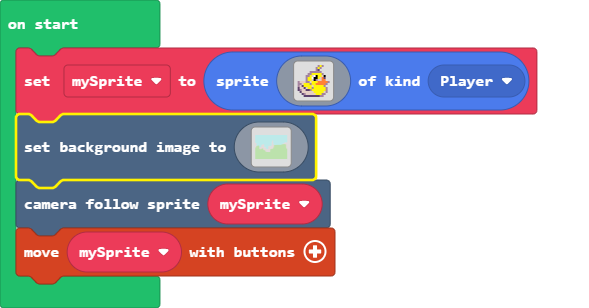
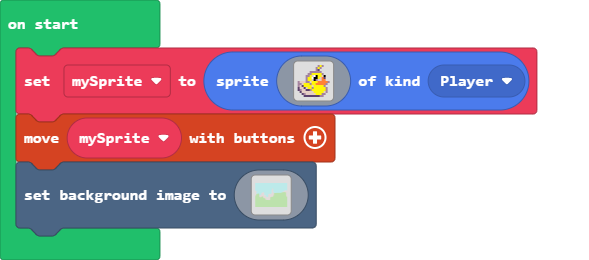
Update main.blocks, main.ts

diff --git a/main.ts b/main.ts
@@ -16,6 +16,7 @@ let mySprite = sprites.create(img`
     . . c b d d d d d 5 5 5 b b . . 
     . . . c c c c c c c c b b . . . 
     `, SpriteKind.Player)
+controller.moveSprite(mySprite)
 scene.setBackgroundImage(img`
     9999999999999999999999999999999999999999999999999999999999999999999999999999999999999999999999999999999999999999999999999999999999999999999999999999999999999999
     9999999999999999999999999999999999999999999999999999999999999999999999999999999999999999999999999999999999999999999999999999999999999999999999999999999999999999
@@ -138,5 +139,3 @@ scene.setBackgroundImage(img`
     7777777777777777777777777777777777777777777777777777777777777777777777777777777777777777777777777777777777777777777777777777777777777777777777777777777777777777
     7777777777777777777777777777777777777777777777777777777777777777777777777777777777777777777777777777777777777777777777777777777777777777777777777777777777777777
     `)
-scene.cameraFollowSprite(mySprite)
-controller.moveSprite(mySprite)
